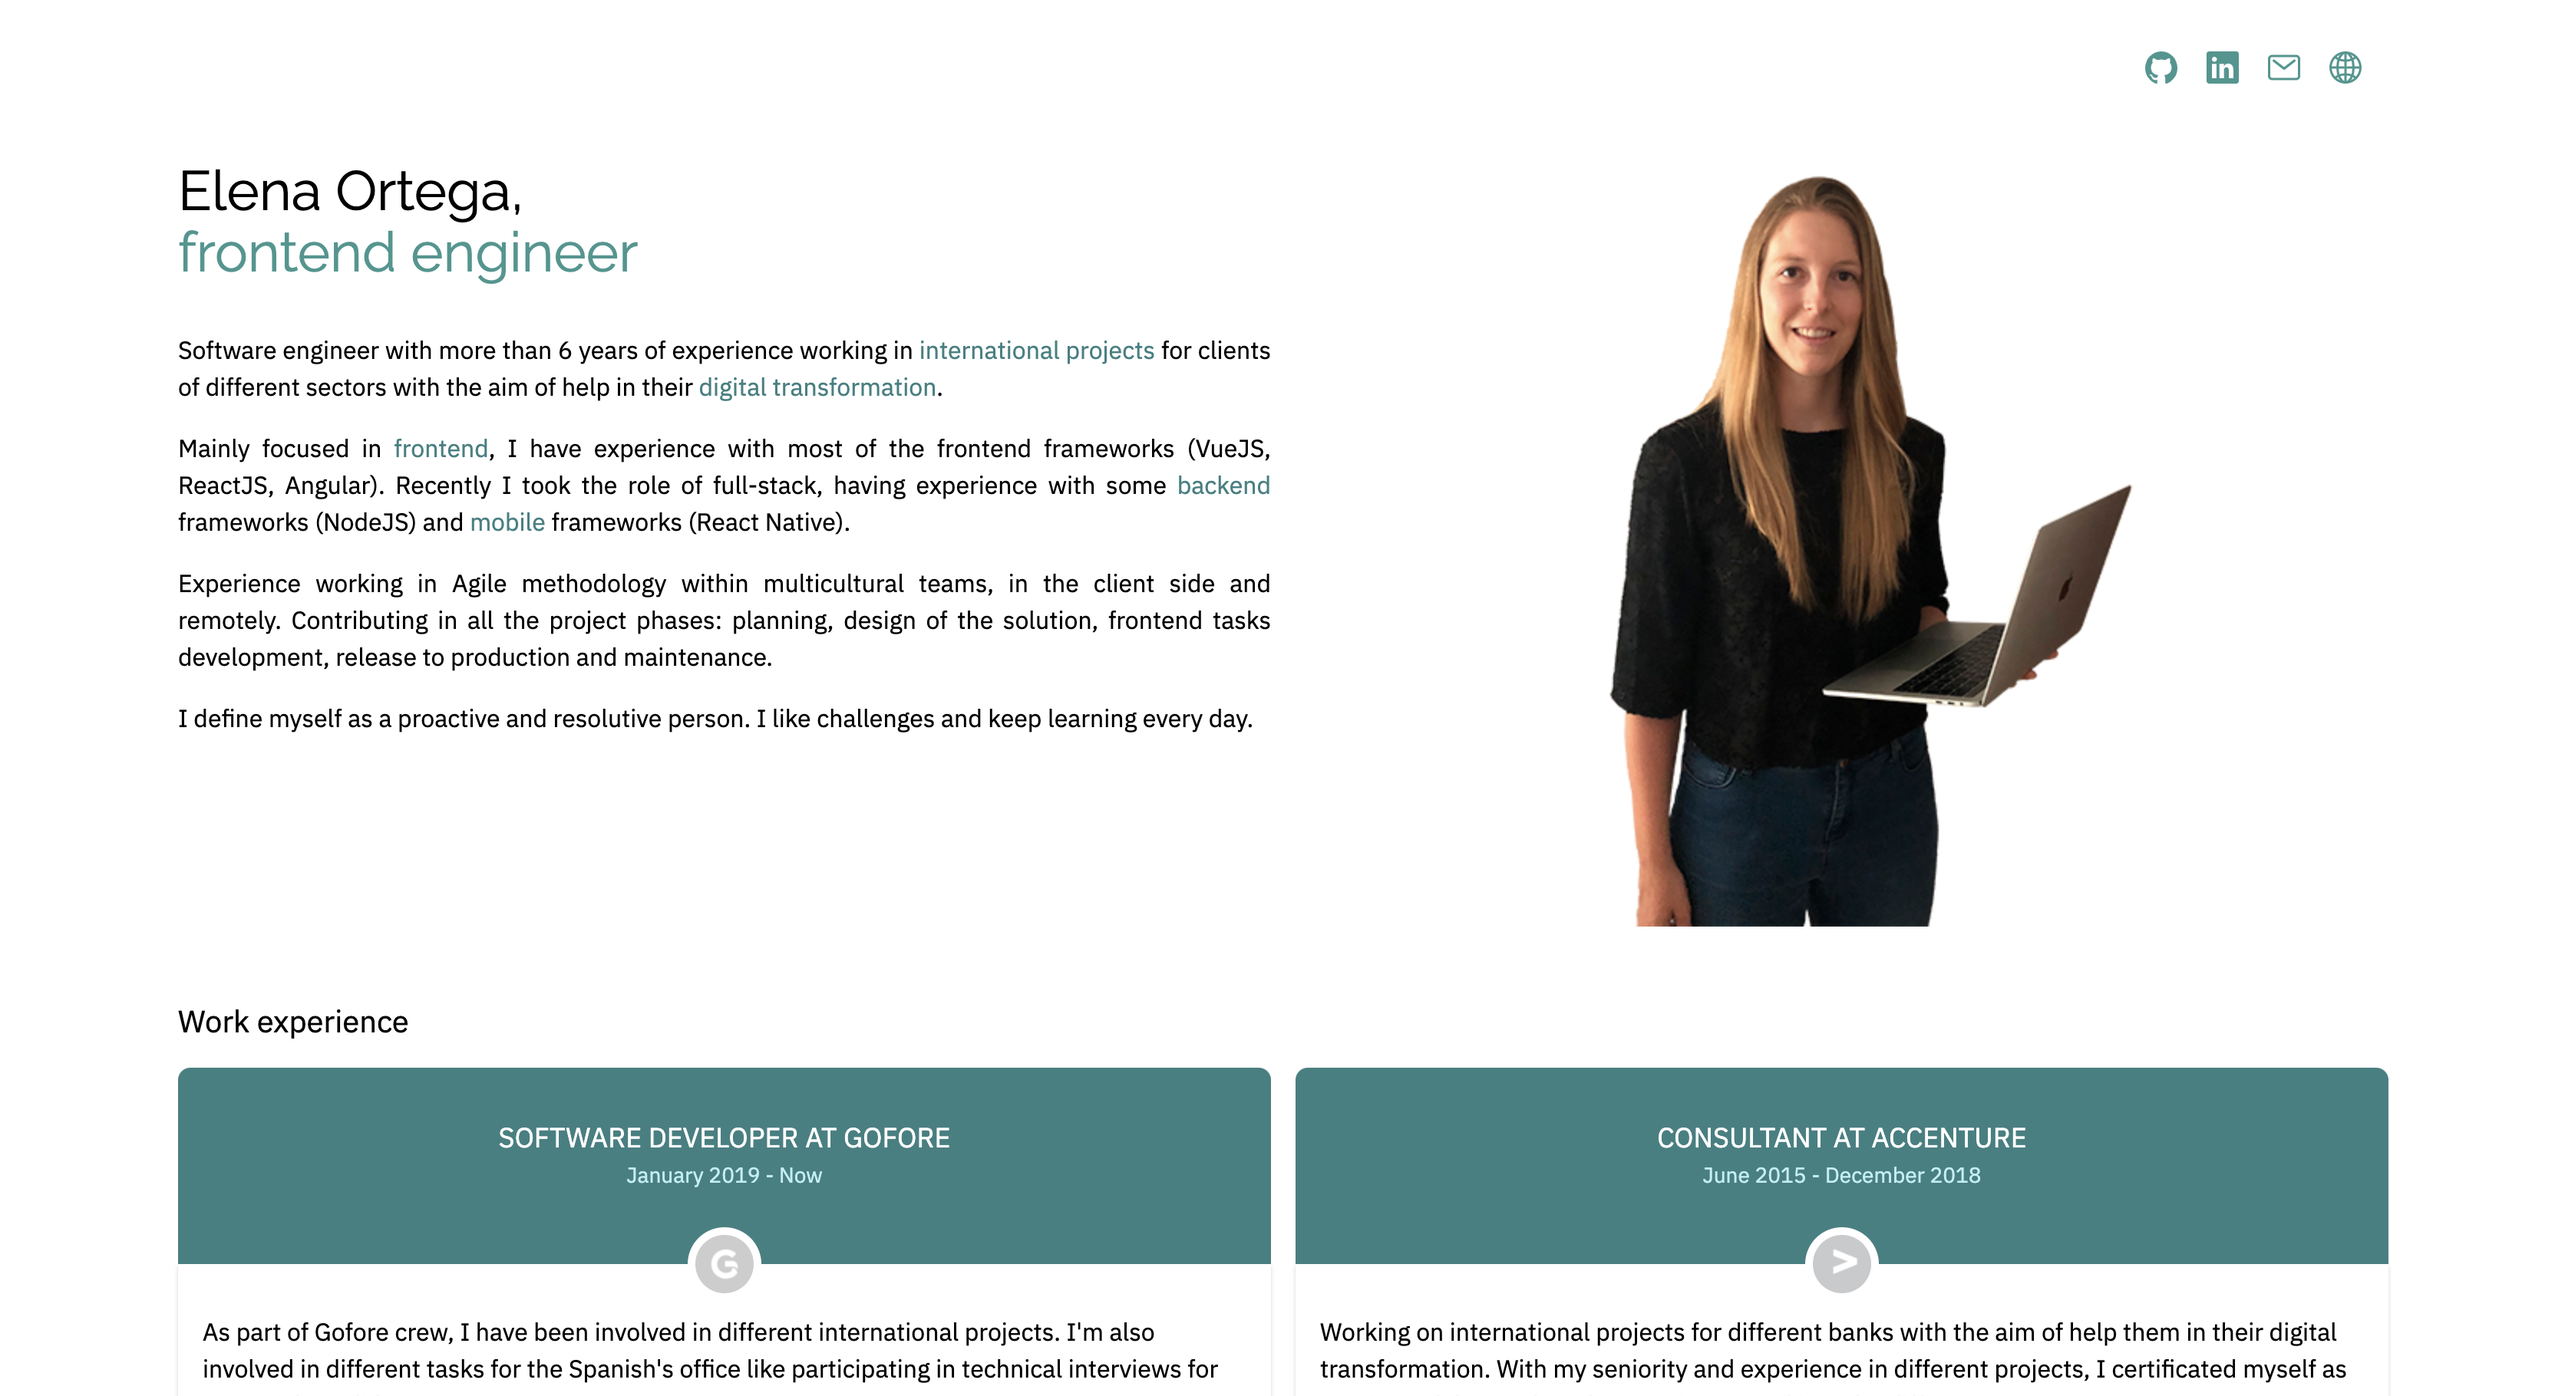
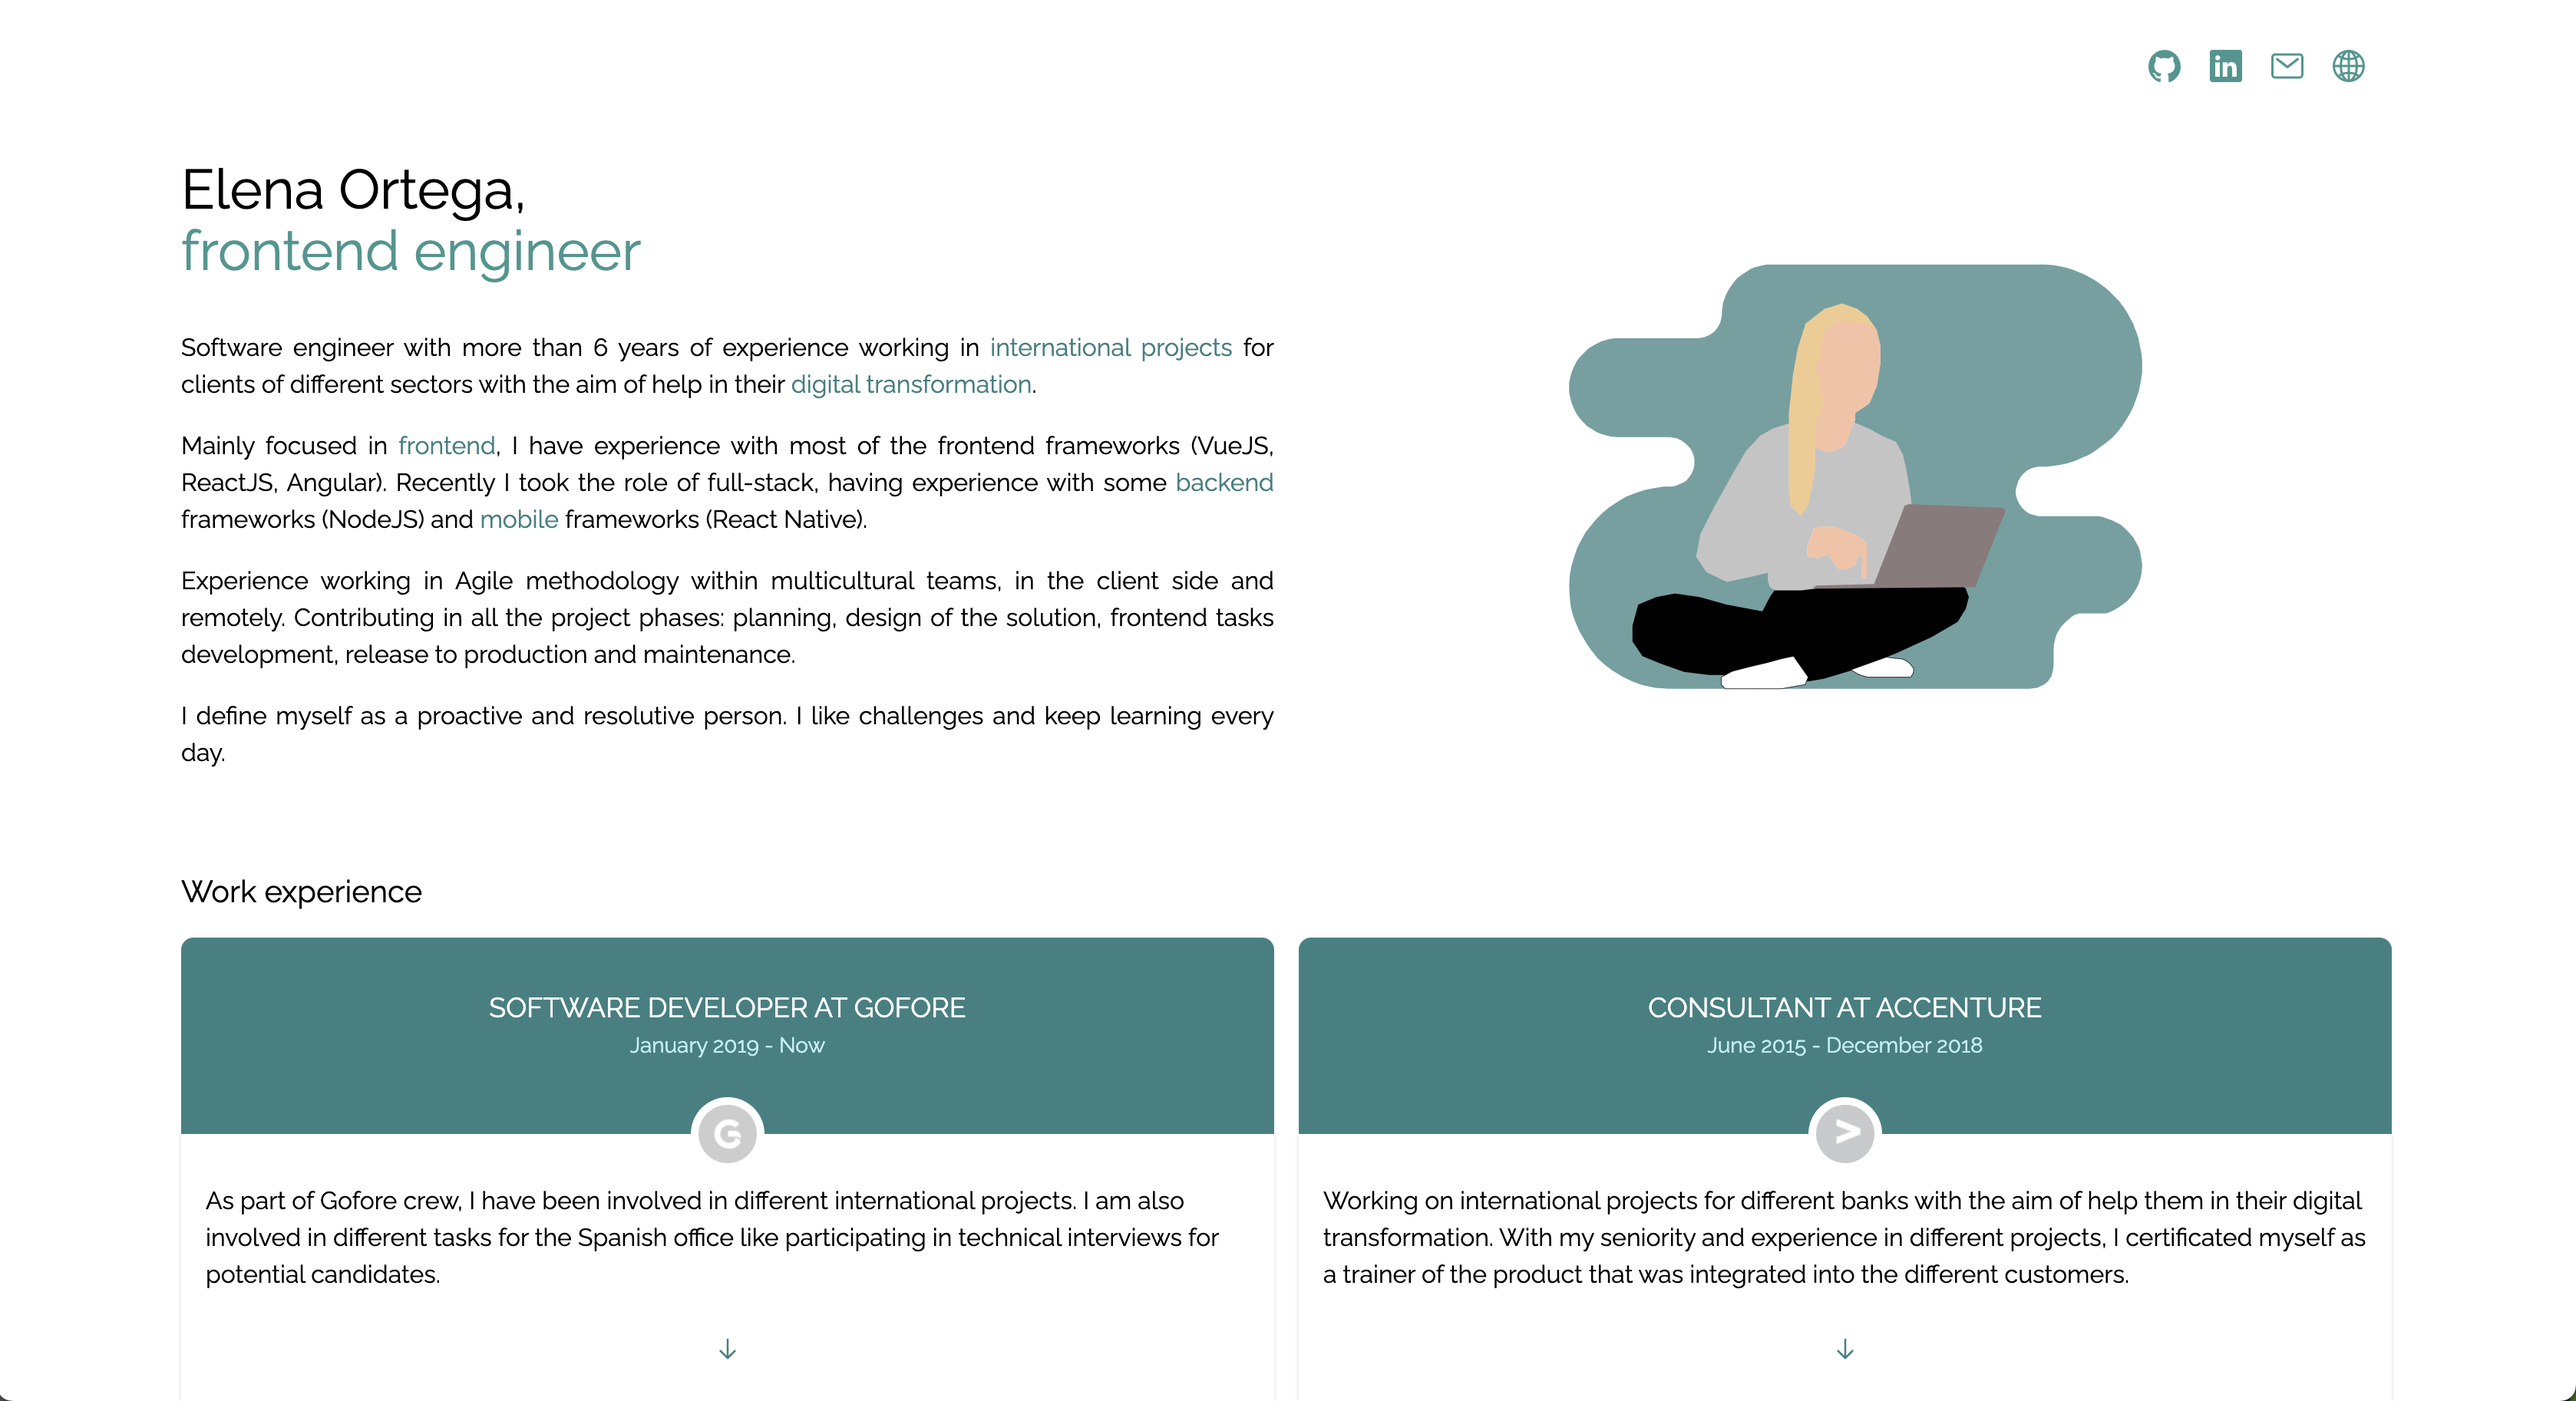
Use Lottie animation. Adjust layout.

diff --git a/src/assets/data/workExperience.ts b/src/assets/data/workExperience.ts
@@ -126,15 +126,15 @@ export default {
       projects: [
         {
           id: 'work-experience-2-project-es-5',
-          duration: 'Febrero 2021 - Now',
+          duration: 'Febrero 2021 - Actualidad',
           title: 'Desarrollo Fullstack de una plataforma que permite la digitalización de una empresa de prevención de riesgos laborales',
-          location: 'Remote work',
+          location: 'Trabajo Remoto',
           description: 'Mi principal tarea es el desarrollo web usando ReactJS/Typescript. También realizo el análisis y estimación de las nuevas funcionalidades. Como parte del equipo multidisciplinar, realizo tareas en el backend usando NodeJS/Express/PostgreSQL. Recientemente me involucré también en el desarrollo de la aplicación móvil con React Native.',
           skills: ['ReactJS', 'Typescript', 'HTML', 'Scss', 'NodeJS', 'React Native', 'Github', 'Scrum', 'Trello', 'Inglés']
         },
         {
           id: 'work-experience-2-project-es-4',
-          duration: 'October 2020 - January 2021',
+          duration: 'Octubre 2020 - Enero 2021',
           title: 'Desarrollo Frontend de una herramienta web para la clasificación y visualización de conversaciones de odio en redes sociales',
           location: 'Trabajo Remoto',
           description: 'Mi principal tarea fue el rediseño y desarrollo web usando Angular/Typescript/Bootstrap/D3.',

diff --git a/src/assets/data/about.ts b/src/assets/data/about.ts
@@ -24,7 +24,7 @@ export default {
     },
     {
       id: 'about-es-2',
-      text: "Principalmente enfocada en el desarrollo <span class='text-primary-600'>frontend</span>, tengo una amplia experiencia con los principales frameworks (VueJS, ReactJS, Angular). Recientemente he tomado el rol de full-stack, con experiencia en <span class='text-primary-600'>backend</span> frameworks (NodeJS) y desarrollo móvil a través de <span class='text-primary-600'>mobile</span> frameworks (React Native)."
+      text: "Principalmente enfocada en el desarrollo <span class='text-primary-600'>frontend</span>, tengo una amplia experiencia con los principales frameworks (VueJS, ReactJS, Angular). Recientemente he tomado el rol de full-stack, con experiencia en <span class='text-primary-600'>backend</span> frameworks (NodeJS) y desarrollo de aplicaciones para <span class='text-primary-600'>móvil</span> (React Native)."
     },
     {
       id: 'about-es-3',

diff --git a/src/views/WorkExperience.vue b/src/views/WorkExperience.vue
@@ -7,14 +7,14 @@
         :key="item.id"
       >
         <div class="relative bg-primary-600 px-4 pt-8 pb-12 rounded-t-lg text-center">
-          <h2 class="text-white uppercase text-lg">{{ item.name }}</h2>
+          <h2 class="text-white uppercase lg:text-lg">{{ item.name }}</h2>
           <p class="text-sm text-primary-200">{{ item.dateStart }} - {{ item.dateEnd }}</p>
           <div class="company-logo rounded-full h-12 w-12 bg-white flex items-center justify-center">
             <img :src="`/assets/img/${item.logo}`" class="rounded-full" />
           </div>
         </div>
         <div class="shadow rounded-b-lg px-4 py-8">
-          <p class="text mb-8">{{ item.description }}</p>
+          <p class="mb-8">{{ item.description }}</p>
           <div
             class="flex justify-center"
             :class="{'arrow-wrapper--rotate-180': showCompanies.includes(item.id)}"

diff --git a/src/views/About.vue b/src/views/About.vue
@@ -12,13 +12,20 @@
       </div>
     </div>
     <div class="mx-auto">
-      <img src="/assets/img/profile-mobile.png" alt="profile" class="w-1/2 md:w-auto mx-auto" />
+      <lottie-player
+        autoplay
+        loop
+        mode="normal"
+        src="https://assets7.lottiefiles.com/packages/lf20_tckktxpj.json"
+        style="width: 500px"
+      ></lottie-player>
     </div>
   </div>
 </template>
 
 <script lang="ts">
 import { defineComponent } from 'vue'
+import '@lottiefiles/lottie-player';
 import data from '../assets/data/about'
 import {About} from '../models/about.model'
 

diff --git a/src/views/PersonalProjects.vue b/src/views/PersonalProjects.vue
@@ -10,7 +10,7 @@
         class="relative bg-white rounded shadow"
       >
         <div class="lg:flex lg:h-full">
-          <div class="flex flex-col justify-between text-center">
+          <div class="flex flex-col justify-between text-center lg:gap-8">
             <img
               :src="`/assets/img/${item.img}`"
               class="personal-project--image"

diff --git a/src/views/Languages.vue b/src/views/Languages.vue
@@ -1,7 +1,7 @@
 <template>
   <div>
     <Title :text="$t('languages.title')"></Title>
-    <div class="md:grid md:grid-cols-3 space-y-4 md:space-y-0 gap-4">
+    <div class="lg:grid lg:grid-cols-3 space-y-4 lg:space-y-0 gap-4">
       <div class="bg-white rounded shadow p-4"
            v-for="item in data?.[$i18n.locale]"
            :key="item.id">

diff --git a/declarations.d.ts b/declarations.d.ts
@@ -1,0 +1,5 @@
+declare namespace JSX {
+  interface IntrinsicElements {
+    "lottie-player": any;
+  }
+}
